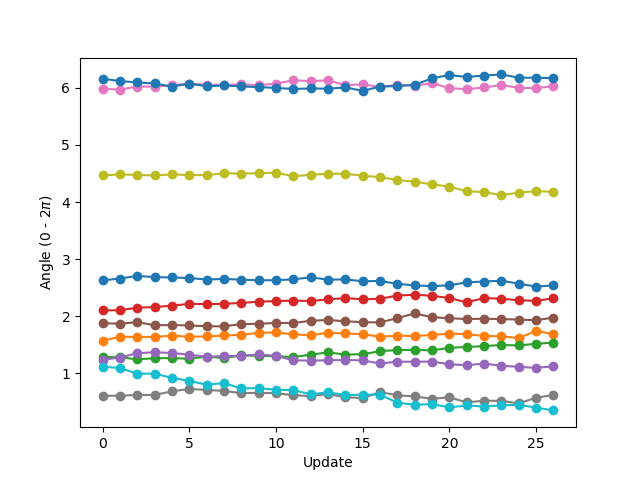
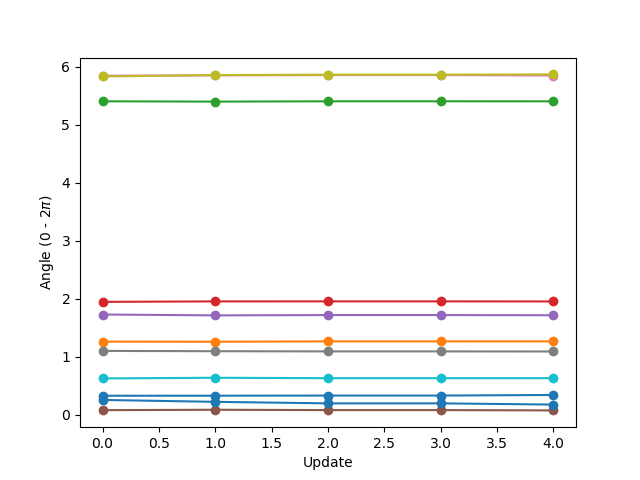
change class weighting

diff --git a/QuantumEdgeNetwork.py b/QuantumEdgeNetwork.py
@@ -7,7 +7,7 @@ import numpy as np
 import matplotlib.pyplot as plt
 from qiskit import *
 from datasets.hitgraphs import HitGraphDataset
-import sys
+import sys, time
 import multiprocessing
 
 def TTN_edge_forward(edge,theta_learn):
@@ -75,42 +75,7 @@ def TTN_edge_back(input_,theta_learn):
 		gradient[i] = (out_plus-out_minus)/(2*epsilon)
 		## Bring theta to its original value
 		theta_learn[i] = (theta_learn[i] + epsilon)%(2*np.pi)
-	
 	return gradient
-#######################################################
-def normalize(B):
-	# This function takes the input matrix and maps it linearly
-	# to 0-2PI.
-	# TODO: Instead of this method use physical max and min to map.
-	r_min_o   = min(B[:,0])  
-	r_min_i   = min(B[:,3])  
-	phi_min_o = min(B[:,1])  
-	phi_min_i = min(B[:,4])  
-	z_min_o   = min(B[:,2])  
-	z_min_i   = min(B[:,5])  
-	r_max_o   = min(B[:,0])  
-	r_max_i   = max(B[:,3])  
-	phi_max_o = max(B[:,1])  
-	phi_max_i = max(B[:,4])  
-	z_max_o   = max(B[:,2])  
-	z_max_i   = max(B[:,5]) 
-	r_min 	  = min(r_min_o,r_min_i)
-	r_max     = max(r_max_o,r_max_i)
-	phi_min   = min(phi_min_o,phi_min_i)
-	phi_max   = max(phi_max_o,phi_max_i)
-	z_min 	  = min(z_min_o,z_min_i)
-	z_max 	  = max(z_max_o,z_max_i)
-	#print('r: '   + str(r_min)   + ' - ' + str(r_max))
-	#print('phi: ' + str(phi_min) + ' - ' + str(phi_max))
-	#print('z: '   + str(z_min)   + ' - ' + str(z_max))
-	# Map between 0 - 2PI
-	B[:,0] = 2*np.pi * (B[:,0]-r_min)/(r_max-r_min) 
-	B[:,1] = 2*np.pi * (B[:,1]-phi_min)/(phi_max-phi_min) 
-	B[:,2] = 2*np.pi * (B[:,2]-z_min)/(z_max-z_min) 
-	B[:,3] = 2*np.pi * (B[:,3]-r_min)/(r_max-r_min) 
-	B[:,4] = 2*np.pi * (B[:,4]-phi_min)/(phi_max-phi_min) 
-	B[:,5] = 2*np.pi * (B[:,5]-z_min)/(z_max-z_min)
-	return B 
 def map2angle(B):
 	# Maps input features to 0-2PI
 	n_section = 8
@@ -127,62 +92,31 @@ def map2angle(B):
 	B[:,4] = 2*np.pi * (B[:,4]-phi_min)/(phi_max-phi_min) 
 	B[:,5] = 2*np.pi * (B[:,5]-z_min)/(z_max-z_min)
 	return B
-
-def test_accuracy(theta_learn):
-	# This function only test the accuracy over a very limited set of data
-	# due to time constraints
-	# TODO: Need to test properly
-	#input_dir = '/home/cenktuysuz/MyRepos/HepTrkX-quantum/data/hitgraphs'
-	#input_dir = '/Users/cenk/Repos/HEPTrkX-quantum/data/hitgraphs_big'
-	input_dir = '\data\hitgraphs_big'
-	data = HitGraphDataset(input_dir, 1)
-	X,Ro,Ri,y = data[0]
-	bo   = np.dot(Ro.T, X)
-	bi   = np.dot(Ri.T, X)
-	B    = np.concatenate((bo,bi),axis=1)
-	B    = map2angle(B)
-	acc  = 0
-	size = len(B[:,0])
-	for i in range(size):
-		out = TTN_edge_forward(B[i],theta_learn)
-		#print(str(i) + ': Result: ' + str(out) + ' Expected: ' + str(y[i]))
-		if(y[i]==0):
-			acc = acc + 1 - out
-		else:
-			acc = acc + out
-	acc = 100.0 * acc/size
-	print('Total Accuracy: ' + str(acc) + ' %')
-	print('Theta_learn: ' + str(theta_learn))
-	return acc
-
-def get_loss_and_gradient(edge_array,y,theta_learn,class_weight,loss_array,gradient_array):
-	local_loss = 0
-	local_gradients = np.zeros(len(theta_learn))
+def get_loss_and_gradient(edge_array,y,theta_learn,class_weight,loss_array,update_array):
+	local_loss 	   = 0.
+	local_gradient = np.zeros(len(theta_learn))
+	local_update   = np.zeros(len(theta_learn))
 	#print('Edge Array Size: ' + str(len(edge_array)))
 	for i in range(len(edge_array)):
-		error 	    = TTN_edge_forward(edge_array[i],theta_learn) - y[i]
-		loss  	    = (error**2)*class_weight[int(y[i])]
-		local_loss = local_loss + loss
-		local_gradients = local_gradients + 2*error*TTN_edge_back(edge_array[i],theta_learn)
+		error 	       = TTN_edge_forward(edge_array[i],theta_learn) - y[i]
+		loss  	       = (error**2)*class_weight[int(y[i])]
+		local_loss     += loss
+		local_gradient = TTN_edge_back(edge_array[i],theta_learn)
+		local_update   += 2*error*local_gradient
+		#print('Item: ' + str(i) + ' Loss: ' + str(loss))
 	loss_array.append(local_loss)
-	gradient_array.append(local_gradients)
-	#print(loss_array)
-	#print(gradient_array)
-
+	update_array.append(local_update)
 def train(B,theta_learn,y):
 	jobs 	     = []
 	n_threads    = 8
 	n_edges      = len(y)
 	n_feed       = n_edges//n_threads
-	n_class1     = sum(y)
-	n_class0     = n_edges - n_class1
-	w_class1     = 1 - n_class1/n_edges ## Need a better way to weight classes
-	w_class0     = 1 - n_class0/n_edges
-	class_weight = [w_class0,w_class1]
+	n_class 	 = [n_edges - sum(y), sum(y)]
+	class_weight = [n_edges/(n_class[0]*2), n_edges/(n_class[1]*2)]
 	# RESET variables
 	manager = multiprocessing.Manager()
 	loss_array = manager.list()
-	gradient_array = manager.list()
+	update_array = manager.list()
 	# Learning variables
 	lr = 1
 	# RUN Multithread training
@@ -191,9 +125,9 @@ def train(B,theta_learn,y):
 		start = thread*n_feed
 		end   = (thread+1)*n_feed
 		if thread==(n_threads-1): 	
-			p = multiprocessing.Process(target=get_loss_and_gradient,args=(B[start:,:],y[start:],theta_learn,class_weight,loss_array,gradient_array,))
+			p = multiprocessing.Process(target=get_loss_and_gradient,args=(B[start:,:],y[start:],theta_learn,class_weight,loss_array,update_array,))
 		else:
-			p = multiprocessing.Process(target=get_loss_and_gradient,args=(B[start:end,:],y[start:end],theta_learn,class_weight,loss_array,gradient_array,))	
+			p = multiprocessing.Process(target=get_loss_and_gradient,args=(B[start:end,:],y[start:end],theta_learn,class_weight,loss_array,update_array,))	
 		jobs.append(p)
 		p.start()
 		#print('Thread: ' + str(thread) + ' started')
@@ -204,14 +138,16 @@ def train(B,theta_learn,y):
 		#print('Thread ended')
 			
 	total_loss = sum(loss_array)
-	total_gradient = sum(gradient_array)
+	total_update = sum(update_array)
 	## UPDATE WEIGHTS
 	average_loss = total_loss/n_edges
-	average_gradient = total_gradient/n_edges
+	average_update = total_update/n_edges
 	print('Average Loss: ' + str(average_loss))
-	print('Gradient averages' + str(average_gradient))
-	theta_learn = (theta_learn - lr*average_gradient)%(2*np.pi)
+	print('Gradient averages' + str(average_update))
+	theta_learn = (theta_learn - lr*average_update)%(2*np.pi)
 	print('Update Angles :' + str(theta_learn))
+	with open('log_gradients.csv', 'a') as f:
+			f.write('%.4f\n' % (average_update))
 	return theta_learn,average_loss
 ############################################################################################
 ##### MAIN ######
@@ -223,8 +159,8 @@ if __name__ == '__main__':
 	theta_learn = np.random.rand(11)*np.pi*2
 	#input_dir = '/home/cenktuysuz/MyRepos/HepTrkX-quantum/data/hitgraphs'
 	#input_dir = '/Users/cenk/Repos/HEPTrkX-quantum/data/hitgraphs_big'
-	input_dir = 'data/hitgraphs_big'
-	n_files = 16*10
+	input_dir = 'data\hitgraphs_big'
+	n_files = 16*100
 	testEVERY = 1
 	accuracy = np.zeros(round(n_files/testEVERY) + 1)
 	loss_log = np.zeros(n_files)
@@ -232,7 +168,7 @@ if __name__ == '__main__':
 	#accuracy[0] = test_accuracy(theta_learn)
 	print('Training is starting!')
 	for n_file in range(n_files):
-
+		t0 = time.time()
 		data = HitGraphDataset(input_dir, n_files)
 		X,Ro,Ri,y = data[n_file]
 		bo 	  = np.dot(Ro.T, X)
@@ -242,6 +178,12 @@ if __name__ == '__main__':
 		
 		theta_learn,loss_log[n_file] = train(B,theta_learn,y)
 		theta_log[n_file,:] = theta_learn	
+		t = time.time() - t0
+		with open('log_loss.csv', 'a') as f:
+			f.write('%d, %.4f, %.2d, %.2d\n' % (n_file+1, loss_log[n_file], t / 60, t % 60))
+
+		
+
 		# 
 		'''
 		if (n_file+1)%testEVERY==0:
@@ -251,17 +193,17 @@ if __name__ == '__main__':
 	
 		# Plot the results	
 		plt.clf()	
-		x = [i for i  in range(n_file+1)]
+		x = [(i+1) for i  in range(n_file+1)]
 		plt.plot(x,loss_log[:n_file+1],marker='o')
 		plt.xlabel('Update')
 		plt.ylabel('Loss')
-		plt.savefig('png/statistics_loss.png')
+		plt.savefig('png\statistics_loss.png')
 
 		plt.clf()
 		for i in range(11):
 			plt.plot(x,theta_log[:n_file+1,i],marker='o',label=r'$\theta_{'+str(i)+'}$')
 		plt.xlabel('Update')
 		plt.ylabel(r'Angle (0 - 2$\pi$)')
-		plt.savefig('png/statistics_angle.png')
+		plt.savefig('png\statistics_angle.png')
 	
 
